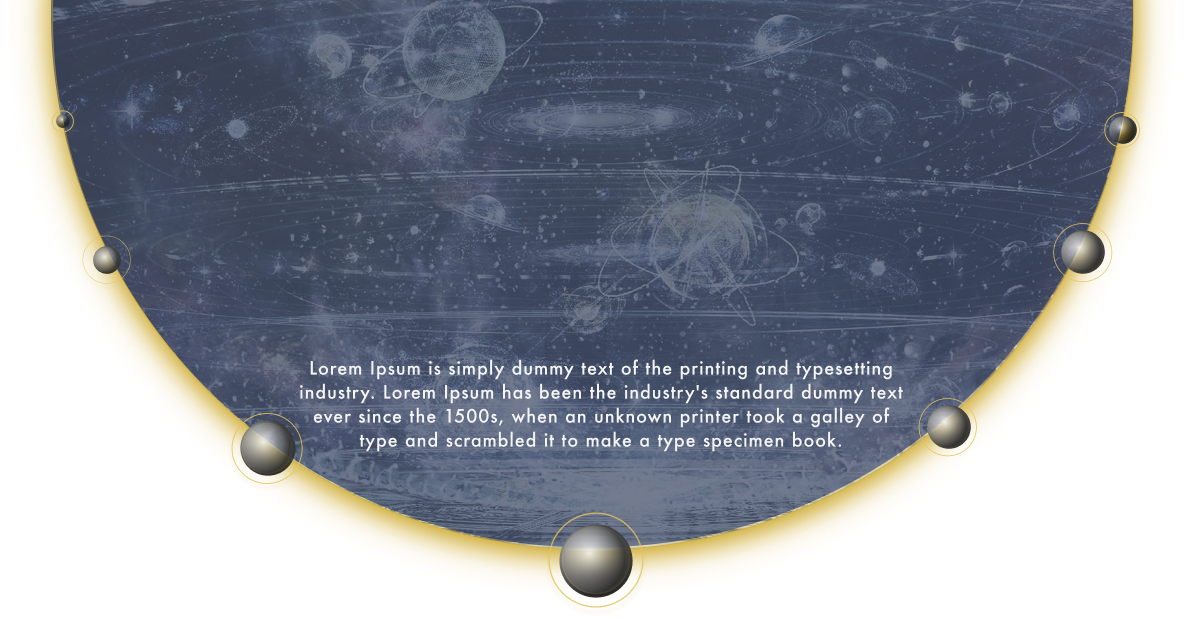
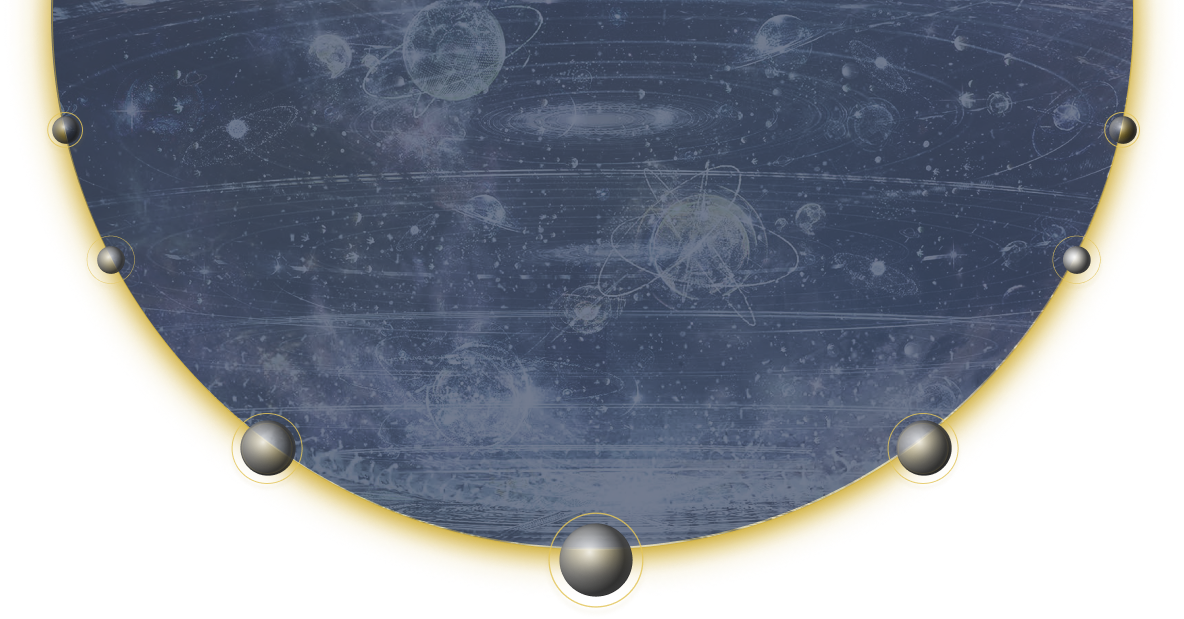
God Make it Work Pls

diff --git a/src/pages/Home/Home.module.css b/src/pages/Home/Home.module.css
@@ -7,10 +7,16 @@
 .starDust{
     position: absolute;
     top:0;
-    left:16%;
+    /* background-color: aqua; */
+    width: 100%;
+    display: flex;
+    justify-content: center;
     z-index: 50;
-    width: 70%;
     /* height: 100%; */
+}
+.starDust img{
+    width: 70%;
+
 }
 .stars{
     width: 100%;
@@ -18,51 +24,6 @@
     top:-15%;
     left:0;
     /* background-size: cover; */
-}
-
-.text{
-    font-family: 'Roboto', sans-serif;
-    color:#F5F5F5;
-    font-weight: 600;
-    font-size: 18px;
-    display:  flex;
-    align-items: center;
-}
-.text div{
-    width: 5px;
-    height: 5px;
-    margin-right: 10px;
-    background-color: #F5F5F5;
-    border-radius: 50%;
-}
-.Join{
-    position: absolute;
-    top:16%;
-    left:13%;
-}
-
-.Watch{
-    position: absolute;
-    top: 27%;
-    left: 24%;
-}
-
-.Buy{
-    position: absolute;
-    top: 34%;
-    left: 48%;
-}
-
-.Download{
-    position: absolute;
-    top: 26%;
-    left: 71%;
-}
-
-.About{
-    position: absolute;
-    top: 16%;
-    left: 81%;
 }
 
 .heading{
@@ -119,76 +80,67 @@
     padding-top: 55%;
 }
 
-@media screen and (min-width:1580px) and (max-width:1920px) {
-    .Join{
-        top:18%;
-        left:14%;
-    }
-    .Watch {
-        top: 30%;
-        left: 26%;
-    }
-    .Buy {
-        top:37%;
-        left: 48.5%;
-    }
-    .Download {
-        top: 28%;
-        left: 71%;
-    }
-    .About {
-        top: 17%;
-        left: 81%;
-    }
+.textLayer1{
+    position: absolute;
+    top:16%;
+    left:0;
+    width: 100%;
+    display: flex;
+    /* background-color: aqua; */
+    padding: 0% 12%;
+    justify-content: space-between;
+}
+.textLayer2{
+    position: absolute;
+    top:27%;
+    left:0;
+    width: 100%;
+    display: flex;
+    /* background-color: aqua; */
+    padding-left: 23%;
+    padding-right: 17%;
+    justify-content: space-between;
 }
 
-/* 13 inches */
-@media screen and (max-width:1400px)  {
-    .Join {
-        top: 14%;
-        left: 12%;
-    }
-    .BrahmandLogo{
-        left:32%;
-        font-size: 80px;
-    }
-    .Watch {
-        top: 24%;
-        left: 23%;
-    }
-    .Buy {
-        top: 30%;
-    }
-    .Download {
-        top: 23%;
-    }
-    .About {
-        top: 14%;
-    }
+.textLayer3{
+    position: absolute;
+    top: 34%;
+    left: 0;
+    width: 100%;
+    display: flex;
+    justify-content: center;
+    align-items: center;
 }
 
+.dot{
+    background: #F5F5F5;
+    height:5px;
+    width: 5px;
+    border-radius: 50%;
+}
 
-@media screen and (min-width:1920px) {
-    .BrahmandLogo{
-        top:15%;
-        left:35%;
-        font-size: 100px;
+.text{
+    font-size: 18px;
+    font-family: "Futura";
+    font-weight: 500;
+    margin-left:10px;
+    color: #F5F5F5;
+}
+
+.textWrap{
+    display: flex;
+    align-items: center;
+}
+
+@media screen and (min-width:1550px) and (max-width:1960px) {
+    .textLayer1{
+        padding-right:12%;
+        padding-left:11%;
     }
-    .Join{
-        top:19%;
-        left:15.5%;
+    .textLayer2{
+        padding-left: 21%;
     }
-    .Watch{
-        top:32%;
-    }
-    .Buy{
-        top:40%;
-    }
-    .Download{
-        top:30%;
-    }
-    .About{
-        top:19%;
-        left:80%;
+    .textLayer3{
+        top:36.5%;
     }
 }

diff --git a/src/pages/Home/Home.jsx b/src/pages/Home/Home.jsx
@@ -11,26 +11,34 @@ const Home = () => {
     <div className={classes.Container}>
       <Navbar />
       <div className={classes.BrahmandLogo}>BRAHMAND</div>
-      <img className={classes.starDust} src={Stardust} alt='home' />
+      <div className={classes.starDust}>
+        <img src={Stardust} alt='home' />
+      </div>
       <img className={classes.stars} src={Stars} alt='home' />
       <div className={classes.spacing} />
-      <div className={[classes.text, classes.Join].join(" ")}>
-        <div></div>
-        Join Community
+      <div className={classes.textLayer1}>
+        <div className={classes.textWrap}>
+          <div className={classes.dot} />
+          <div className={classes.text}>Join Community</div>
+        </div>
+        <div className={classes.textWrap}>
+          <div className={classes.dot} />
+          <div className={classes.text}>About Game</div>
+        </div>
       </div>
-      <div className={[classes.text, classes.Watch].join(" ")}>
-        <div></div>
-        Watch Trailer
+      <div className={classes.textLayer2}>
+        <div className={classes.textWrap}>
+          <div className={classes.dot} />
+          <div className={classes.text}>Watch Trailer</div>
+        </div>
+        <div className={classes.textWrap}>
+          <div className={classes.dot} />
+          <div className={classes.text}>Download Litepaper</div>
+        </div>
       </div>
-      <div className={[classes.text, classes.Buy].join(" ")}>
-        <div></div>Buy NFT
-      </div>
-      <div className={[classes.text, classes.Download].join(" ")}>
-        <div></div>
-        Download Litepaper
-      </div>
-      <div className={[classes.text, classes.About].join(" ")}>
-        <div></div>About Game
+      <div className={classes.textLayer3}>
+        <div className={classes.dot} />
+        <div className={classes.text}>Buy NFT</div>
       </div>
       <div className={classes.heading}>Lorem Ipsum Lorem Ipsum.....</div>
       <div className={classes.Body}>

diff --git a/src/Components/Navbar.module.css b/src/Components/Navbar.module.css
@@ -6,9 +6,7 @@
     background: linear-gradient(180deg, rgba(226, 196, 91, 0.53) 0%, rgba(49, 67, 115, 0.15) 100%);
     z-index: 100;
     display: flex;
-    padding:2% 0%;
-    padding-left: 21%; 
-    padding-right: 19%; 
+    padding:2% 20%;
     justify-content: space-between;
 }
 
